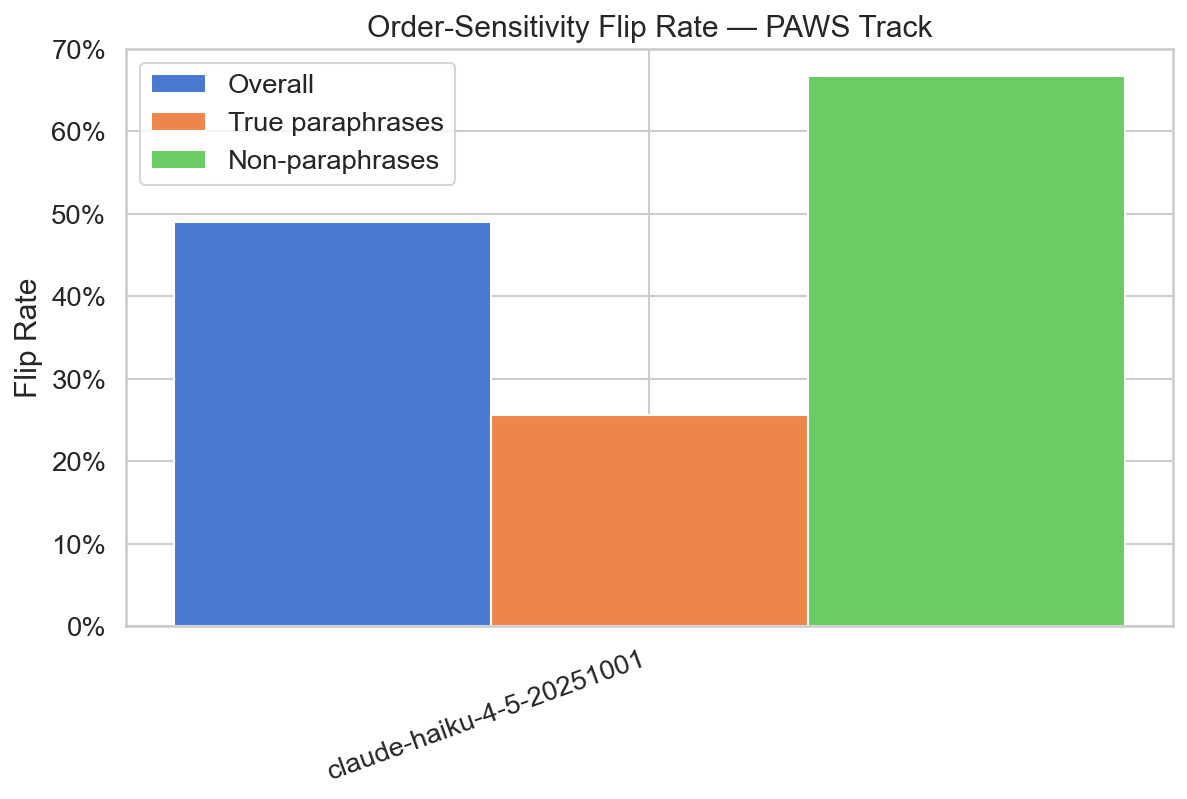
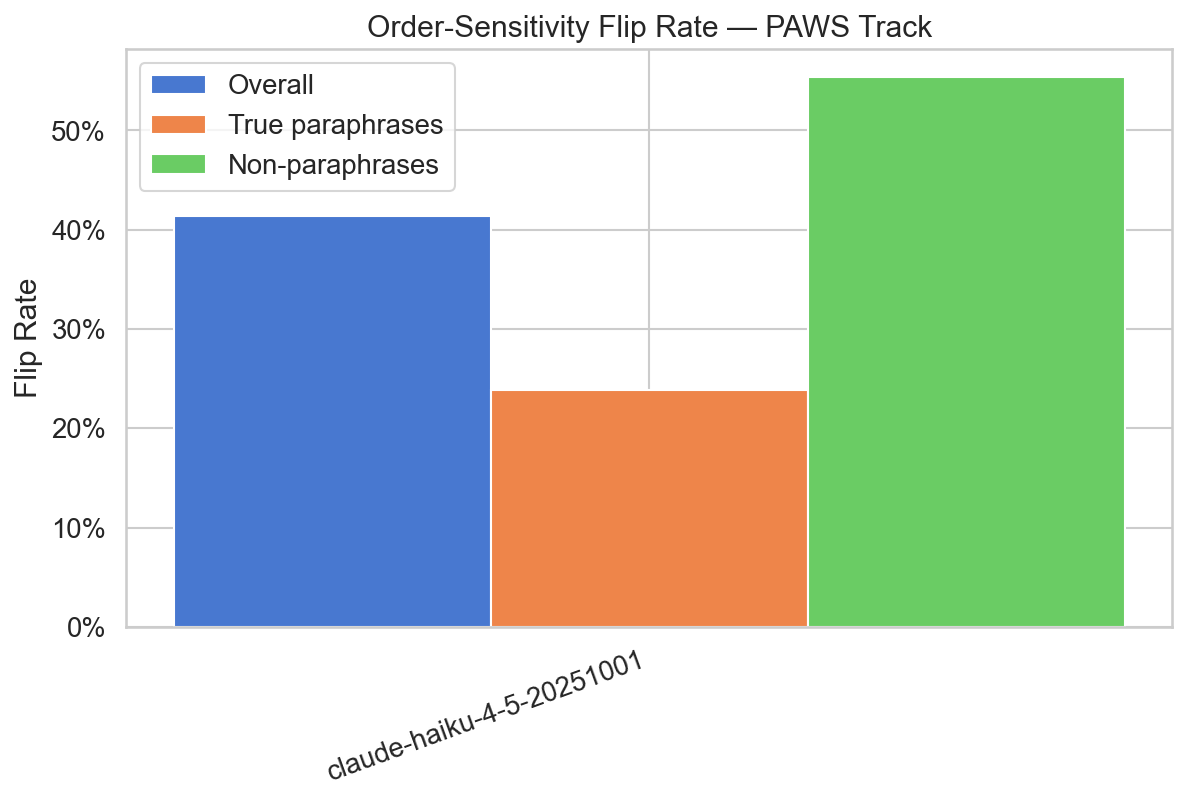
Add PAWS n=500 results for claude-haiku with bootstrap CIs
Flip rate (overall): 41.4% (95% CI: 37.2-45.6%)
True paraphrase flip rate: 23.9%
Non-paraphrase flip rate: 55.4% (2.3x ratio)
Forward accuracy: 60.0%

Pilot n=100 estimate of 49% stabilizes to 41.4% at scale.

diff --git a/README.md b/README.md
@@ -18,7 +18,7 @@ We introduce a two-track evaluation framework for measuring **paraphrase sensiti
 1. **Paraphrase Consistency (MMLU Track):** For each multiple-choice question, we generate semantically equivalent restatements using an auxiliary LLM and measure whether the target model answers identically across all variants.
 2. **Order Sensitivity (PAWS Track):** Using adversarially constructed sentence pairs, we measure whether swapping the presentation order of a pair changes the model's paraphrase judgment.
 
-Results reveal substantial sensitivity: tested models change their answers on **40–50% of paraphrased questions**, with meaningful variation across subject domains and pair types.
+Results reveal substantial sensitivity: at n=500, tested models change their answers on **~47% of paraphrased MMLU questions** and exhibit a **41% flip rate on PAWS order-swapped pairs**, with meaningful variation across subject domains and pair types.
 
 ### Why This Matters
 
@@ -156,16 +156,16 @@ Adversarial prompts test robustness to malicious inputs; paraphrases test consis
 
 ### PAWS — Order Sensitivity
 
-**Setting:** `claude-haiku-4-5-20251001` · n=100 pairs
+**Setting:** `claude-haiku-4-5-20251001` · n=500 pairs
 
-| Metric | Value | Notes |
+| Metric | Value | 95% CI |
 |---|---|---|
-| **Flip Rate (overall)** | **49.0%** | % of pairs where answer changes when S1/S2 order swaps |
-| Flip Rate (true paraphrases) | 25.6% | Lower — model partially tracks semantic equivalence |
-| Flip Rate (non-paraphrases) | 66.7% | Higher — model is more sensitive to adversarial pairs |
-| Forward Accuracy | 58.0% | % correctly labeled in S1→S2 order |
+| **Flip Rate (overall)** | **41.4%** | 37.2% – 45.6% |
+| Flip Rate (true paraphrases) | 23.9% | — |
+| Flip Rate (non-paraphrases) | 55.4% | — |
+| Forward Accuracy | 60.0% | — |
 
-> **Key pattern:** The **2.6× difference** in flip rate between true paraphrases (25.6%) and non-paraphrases (66.7%) shows the model captures some semantic signal. However, the overall 49% flip rate means presentation order is still a dominant driver of output. A model with perfect semantic grounding would show near-zero flip rate on true paraphrases.
+> **Key pattern:** The **2.3× difference** in flip rate between true paraphrases (23.9%) and non-paraphrases (55.4%) confirms the model captures genuine semantic signal. The overall 41.4% flip rate (95% CI: 37.2–45.6%) is substantially above chance (50% would be random), confirming a real but incomplete sensitivity to input ordering. The pilot n=100 estimate of 49% was inflated; n=500 stabilizes near 41%.
 
 ![PAWS Flip Rate](figures/paws_flip_rate_claude-haiku-4-5-20251001.png)
 
